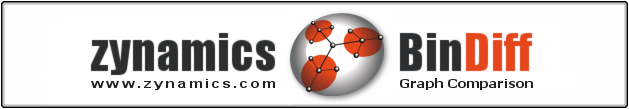
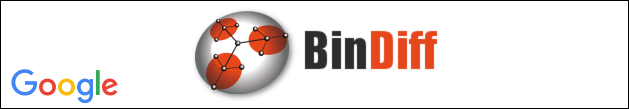
Internal change
PiperOrigin-RevId: 161189102

diff --git a/java/ui/src/main/java/com/google/security/zynamics/bindiff/gui/tabpanels/TabPanelFunctions.java b/java/ui/src/main/java/com/google/security/zynamics/bindiff/gui/tabpanels/TabPanelFunctions.java
@@ -91,12 +91,7 @@ public class TabPanelFunctions {
     final Image appImage = BINDIFF_ABOUT_IMAGE.getImage();
     final CDialogAboutEx dlg =
         new CDialogAboutEx(
-            window,
-            new ImageIcon(appImage),
-            Constants.PRODUCT_NAME_VERSION,
-            message,
-            description,
-            urls);
+            window, new ImageIcon(appImage), Constants.PRODUCT_NAME, message, description, urls);
 
     dlg.setIconImage(ImageUtils.getImageIcon(Constants.APP_ICON_PATH_16X16).getImage());
 

diff --git a/java/ui/src/main/java/com/google/security/zynamics/bindiff/resources/Constants.java b/java/ui/src/main/java/com/google/security/zynamics/bindiff/resources/Constants.java
@@ -12,7 +12,6 @@ public final class Constants {
   public static final boolean SHOW_SUPERGRAPH = false;
 
   // Application Generals
-  public static final String COMPANY_NAME = "zynamics";
   public static final String PRODUCT_NAME = "BinDiff";
   public static final String PRODUCT_VERSION = "4.3.0";
   public static final String PRODUCT_NAME_VERSION = "BinDiff 4.3";
